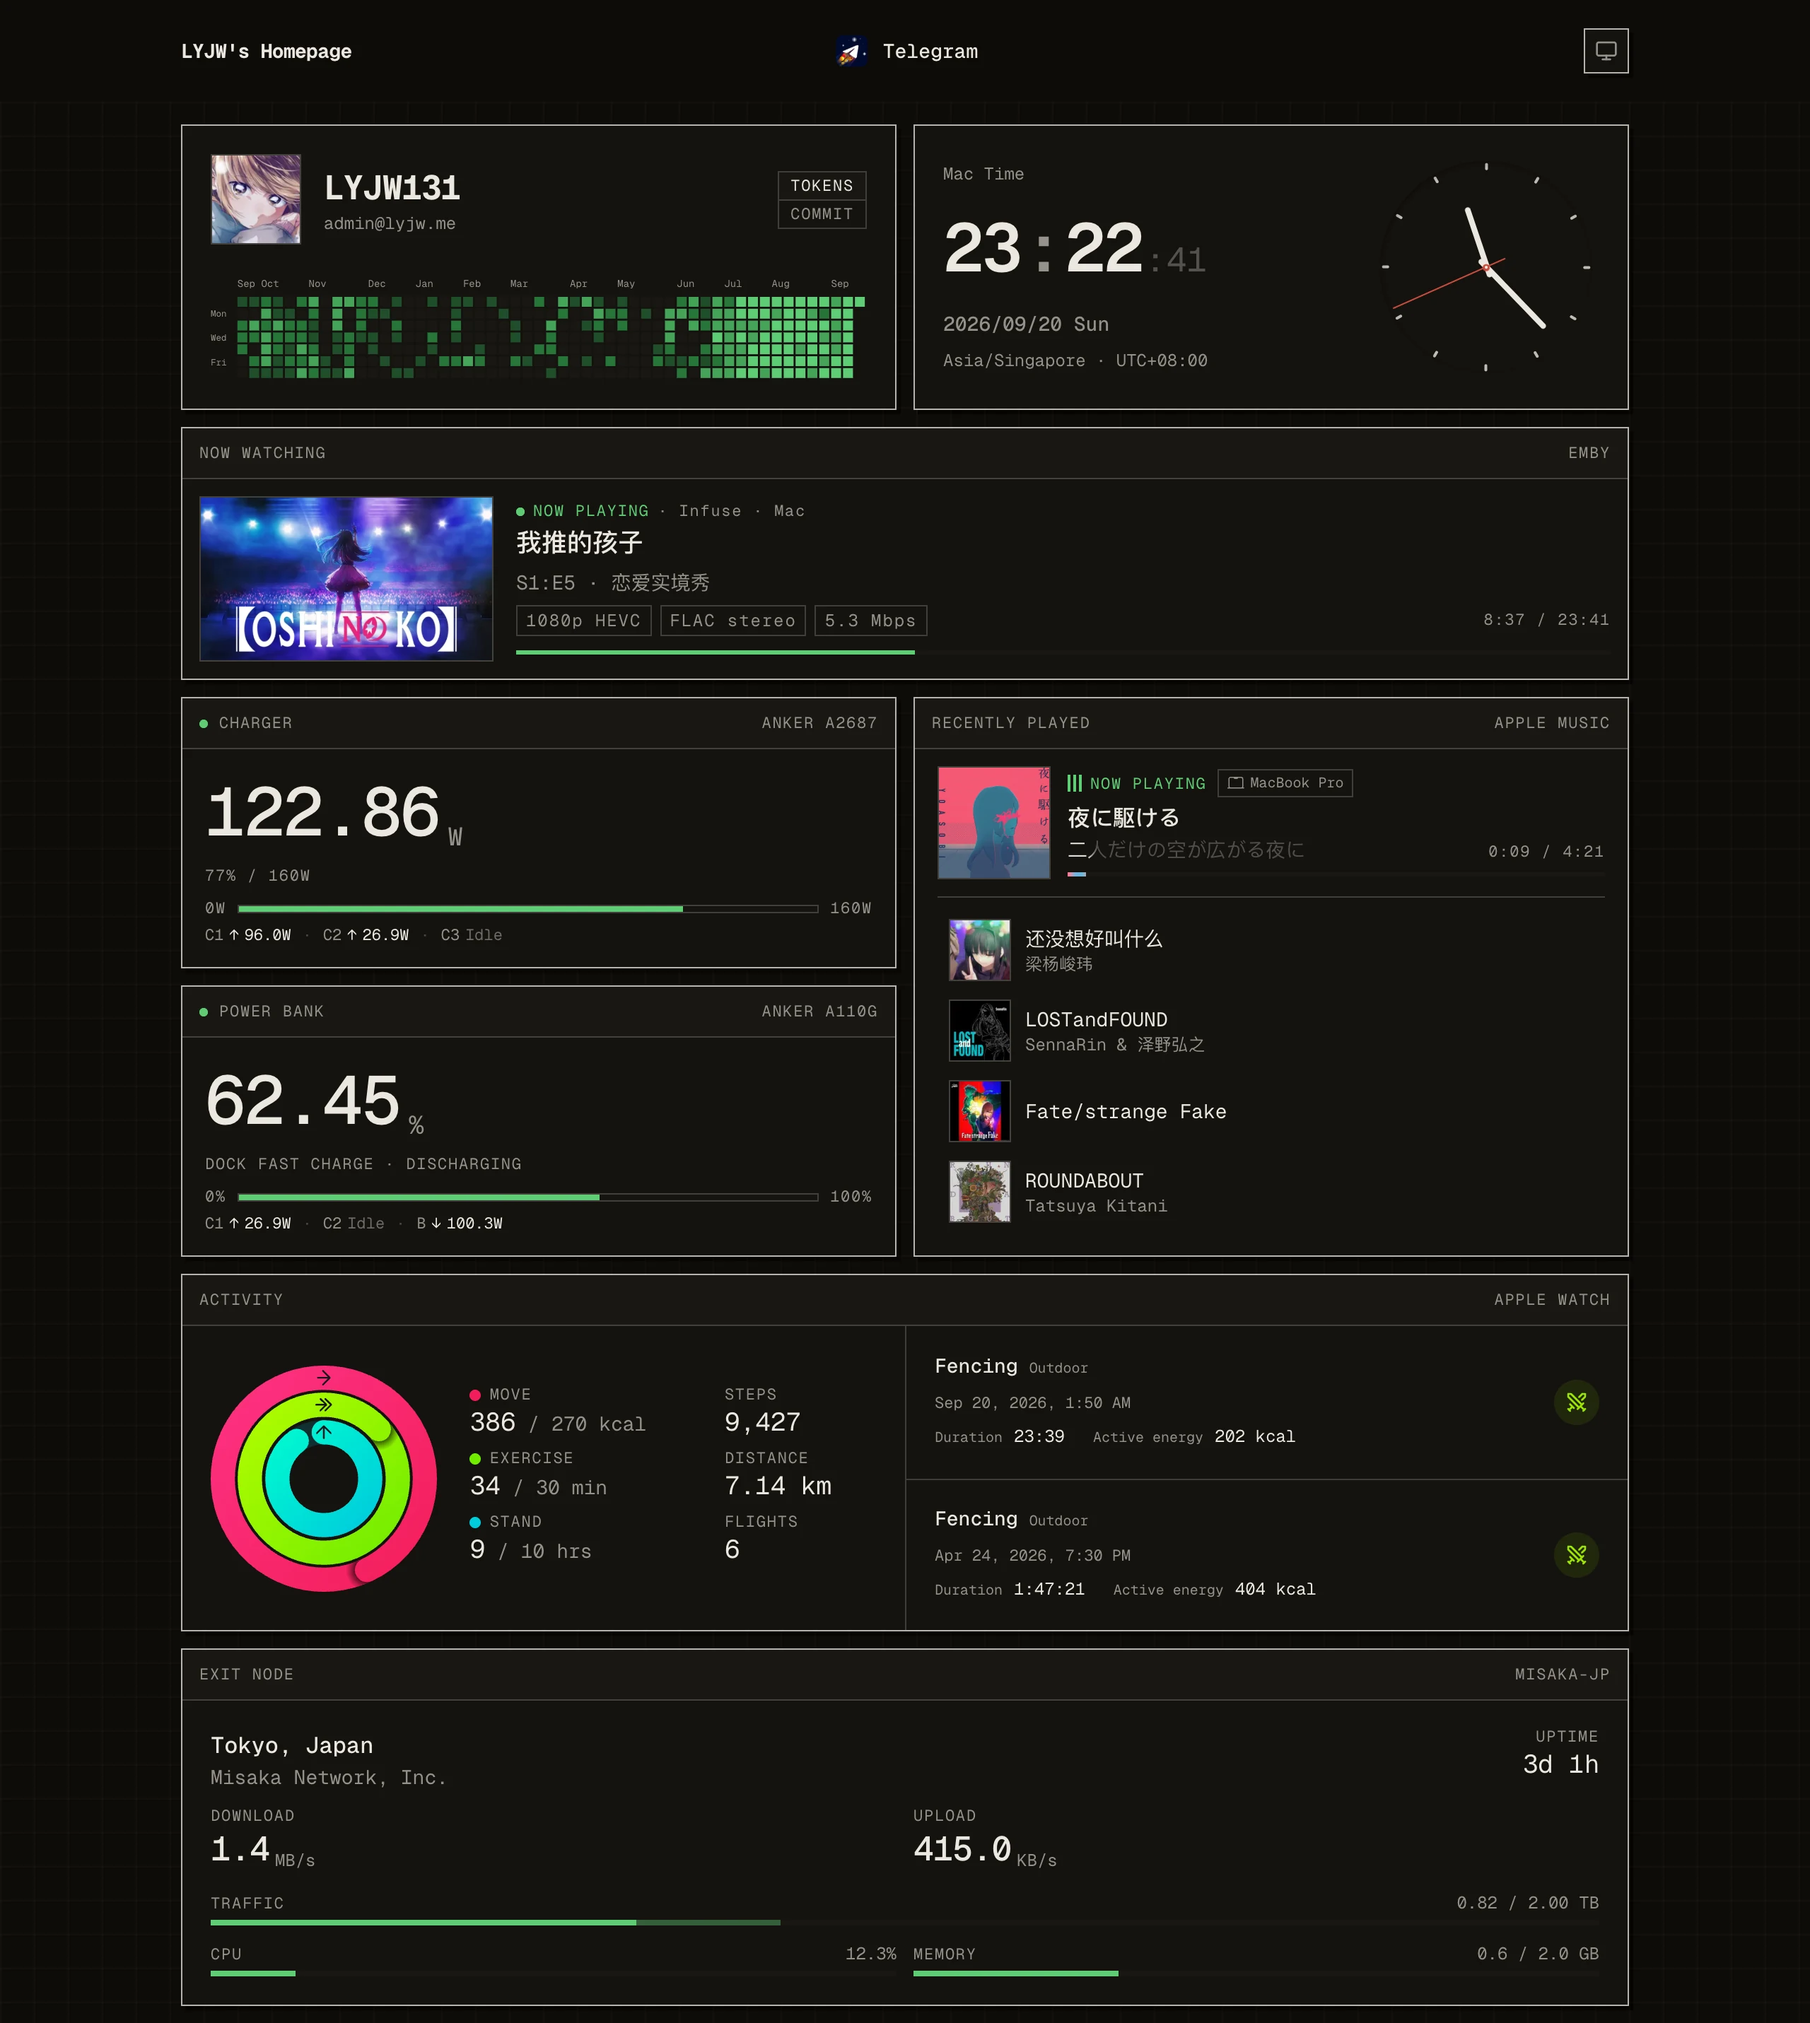
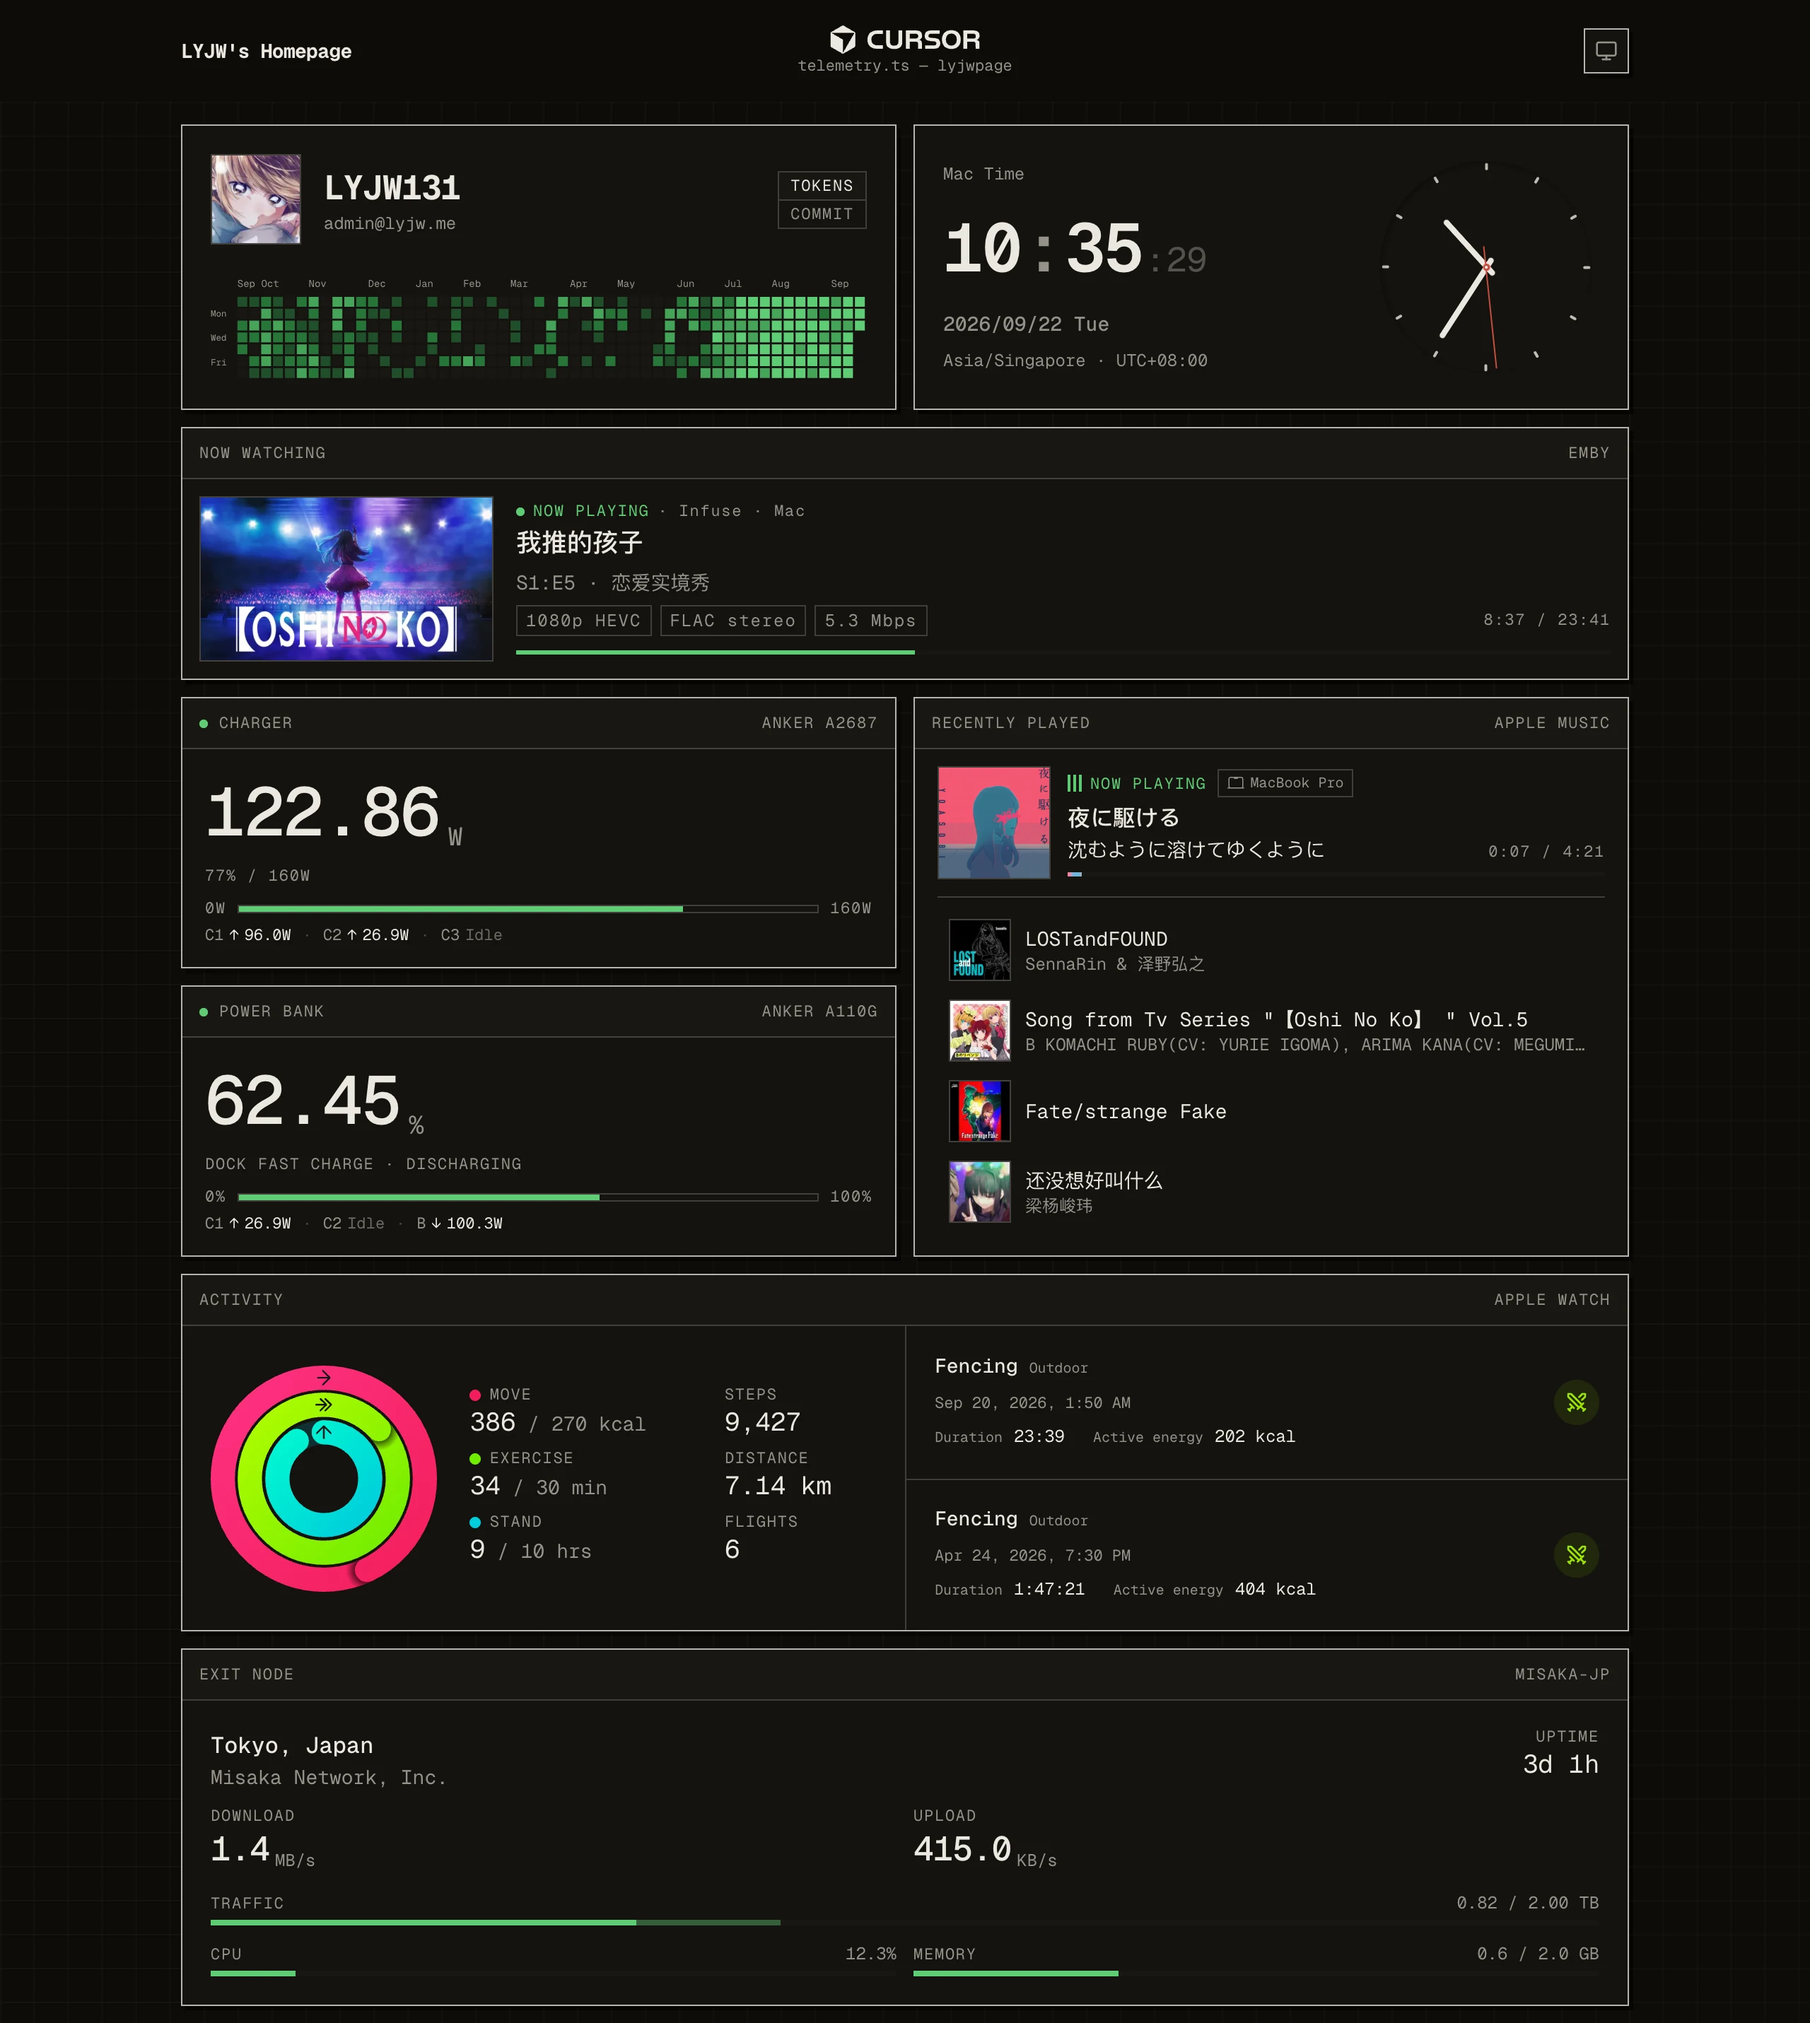
docs(readme): 补窗口标题与 Pulse 时段详情，总览图带上标题行
页头 09-22 起在应用名下面多一行放行的窗口标题（9279f62），Pulse 的泳道可以
悬停看某一段的曲目和评分（8cfdd51），listening 改画 Jev 评分而不是实测阶跃
（325ddda）——README 三处都还是旧口径。

- 新增效果图：页头带窗口标题的徽章、Pulse 时段详情浮层，明暗各一份
- 总览图重截：页头改注入带 windowTitle 的 desktop 夹具，标题行出现在图里
- Pulse 段落改准口径：看 / 玩画实测状态，充电画实测瓦数，编码 / 听 / 身体活动
  画 Jev 五分钟评分，并说明听和身体活动为什么不画实测
- 「几个关键设计」加一节「窗口标题在上报之前先过一道判断」：标题离开 Mac 前
  先过一道隐私判断，Jev 参与，只有放行的才进信封
- docs/README.md 补这两张图各自需要的额外动作

diff --git a/README.md b/README.md
@@ -19,11 +19,11 @@
 | **音乐** | Apple Music 与 HomePod 播放状态、最近收听、逐字歌词和动态封面；访客可通过自己的 Apple Music 账号与订阅使用网页播放器和「一起听」。 |
 | **影视** | Emby 正在播放与最近观看，呈现播放进度、剧集信息、画面与音轨规格。 |
 | **游戏** | PlayStation 在线状态、游戏记录与奖杯进度，展开游戏卡片查看成就明细。 |
-| **本机与充电设备** | Mac 前台应用（几款常用工具换成品牌标识和动画），以及 Anker 充电器、充电宝的端口状态、电压、电流和功率变化。 |
+| **本机与充电设备** | Mac 前台应用（几款常用工具换成品牌标识和动画），以及通过隐私判断放行的窗口标题；Anker 充电器、充电宝的端口状态、电压、电流和功率变化。 |
 | **AI Coding** | 编码工具的 Token 用量、API 等值成本估算、年度热力图与账号限额窗口。 |
 | **运动活动** | 通过 iPhone 的 HealthKit 数据展示 Apple Watch 活动、锻炼与站立三环，以及最近 10 次训练的时长、能量和心率。 |
 | **服务器** | 落地节点的运行时间、CPU、内存、网络吞吐，以及按计费周期累计的流量。 |
-| **Pulse** | 编码、听、看、玩、充电、身体活动六个域最近 24 小时的活跃度泳道，听、看、玩曲线显示二值状态，充电曲线显示实测瓦数；六项右侧均保留 Jev 评分和趋势。 |
+| **Pulse** | 编码、听、看、玩、充电、身体活动六个域最近 24 小时的活跃度泳道；悬停任一时段可看当时在听的曲目、在看的影视、在玩的游戏与该窗口的评分。 |
 | **站点自身** | 网站版本、GitHub 仓库统计与最近提交（含签名状态），PageSpeed 实验室指标的滚动中位数，以及 Vercel 部署和 Cloudflare Workers 的调用统计。 |
 
 界面以灰阶、细线边界和卡片布局为基础，用等宽数字稳定动态指标的排版。颜色与动效主要服务于媒体内容、状态变化和交互反馈。
@@ -91,11 +91,18 @@
   <img src="docs/screenshots/playstation-trophies-light.webp" alt="PlayStation 卡片：在线、正在游玩与展开的奖杯明细" width="100%">
 </picture>
 
-**Pulse**：六个域最近 24 小时的活跃度泳道，听、看、玩曲线直接显示播放／游戏状态，充电曲线和详情显示实测瓦数。六项右侧均由 Jev 五分钟评分汇总强度、趋势和置信度；历史每分钟归档到 D1。
+**Pulse**：六个域最近 24 小时的活跃度泳道。看、玩画实测的播放与游戏状态，充电画实测瓦数；编码、听、身体活动画 Jev 的五分钟评分。听和身体活动画评分而不画实测，是因为实测那条线有盲区——在 iPhone 上听一整天，本机观测到的是一条平线，痕迹只留在「最近在听」列表的变动里；手表两次上报之间的活动同理。只有评分那一侧收得到两路证据。六项右侧统一汇总强度档位、趋势和置信度，历史每分钟归档到 D1。
 
 <picture>
   <source media="(prefers-color-scheme: dark)" srcset="docs/screenshots/pulse-dark.webp">
   <img src="docs/screenshots/pulse-light.webp" alt="Pulse 卡片：六条活跃度泳道与评分" width="100%">
+</picture>
+
+悬停、点击或用方向键走到某一段，会显示这一段的时间范围、当时在听的曲目（在看的影视、在玩的游戏同理）以及该窗口的强度、连续性和置信度。播放停止的时段不沿用上一首的名字。
+
+<picture>
+  <source media="(prefers-color-scheme: dark)" srcset="docs/screenshots/pulse-detail-dark.webp">
+  <img src="docs/screenshots/pulse-detail-light.webp" alt="Pulse 泳道的时段详情：时间范围、当时的曲目与该窗口评分" width="100%">
 </picture>
 
 **AI Coding**：各编码工具的 Token 用量、成本估算、今日用量与账号限额窗口。
@@ -110,6 +117,13 @@
 <picture>
   <source media="(prefers-color-scheme: dark)" srcset="docs/screenshots/desktop-marks-dark.gif">
   <img src="docs/screenshots/desktop-marks-light.gif" alt="页头前台应用的四种品牌标识：Claude Code 吉祥物取物动画、Ghostty ASCII 幽灵动画、Cursor、Antigravity" width="577">
+</picture>
+
+应用名下面还有一行淡色小字，是当前窗口的标题——但只有通过隐私判断的标题才会出现，见下文。
+
+<picture>
+  <source media="(prefers-color-scheme: dark)" srcset="docs/screenshots/desktop-title-dark.webp">
+  <img src="docs/screenshots/desktop-title-light.webp" alt="页头徽章：品牌标识下方一行放行的窗口标题" width="183">
 </picture>
 
 ## 系统架构
@@ -152,6 +166,10 @@
 状态读改写在 Durable Object 内串行合并并持久化。单个数据源不可用时，通过统一的状态响应让对应卡片降级，而不是让整页等待所有设备在线。
 
 上报写入需要鉴权，公开查询只返回明确的展示模型，服务端凭据与公开状态分开处理。
+
+### 窗口标题在上报之前先过一道判断
+
+窗口标题是页面上唯一一项窗口内容，也是唯一一项不能靠规则穷举的内容：应用名就那么多个，标题却是此刻打开的文件、网页或聊天对象。所以它在离开 Mac 之前先过一道隐私判断，由 [TypeSafe](https://www.typesafe.ai/) 的 Jev 参与判断能不能公开，拿不准的留给本人在 Mac 上决定；只有放行的标题才进上报信封。站点这一侧不参与判断，只认信封里有没有标题。
 
 ### 根据活动与访问情况调整开销
 

diff --git a/docs/README.md b/docs/README.md
@@ -28,6 +28,8 @@
 
 [`screenshots/`](./screenshots/) 是根 README 里的效果图，明暗各一份。用本地 Worker 的假数据注入把平时不显示的状态点亮后截的，夹具在 [`workers/api/dev-fixtures/`](../workers/api/dev-fixtures/)，注入方式见 [`workers/api/README.md`](../workers/api/README.md)。截图用无头 Chrome（playwright-core 的 `channel: "chrome"`）开 1280 宽、2 倍像素密度，`colorScheme` 切明暗；裁卡片按元素 boundingBox 外扩 12px 取 `clip`，并把目标之外的兄弟节点 `visibility: hidden`，边距里才不会露出邻居卡片的边；PNG 用项目自带的 sharp 转 WebP（q 88）。
 
+两张需要额外动作：页头那行窗口标题要先注入带 `windowTitle` 的 desktop 夹具（如 `desktop-cursor.json`）；Pulse 的时段详情要用鼠标停在泳道上，把 `[role="tooltip"]`（body 上的浮层）和卡片的 boundingBox 取并集再裁，并顺手把上一张卡 `visibility: hidden`——浮层画在卡片上方，那 12px 的缝里会露出它的下边和硬阴影。
+
 3211 / 8788 被别的实例占着时，用 `.claude/launch.json` 里的 `api-worker-alt`（8790）和 `lyjwpage-local-alt`（3213）另起一套：`dev:worker` / `dev:local` 认 `DEV_WORKER_PORT` / `DEV_SITE_PORT`，`next.config.ts` 认 `NEXT_DIST_DIR`（`next dev` 按 `<distDir>/dev/lock` 保证同目录单实例，第二套要指到 `.next/alt`），`pnpm dev:override` 和截图脚本分别用 `DEV_WORKER_URL` / `SITE_URL` 指过去。
 
 歌词不入库：本地 Worker 没有 Apple Music 凭据，`/api/lyrics` 也不走上游兜底，所以截「正在听」时把生产站的响应包一层 `ok` 直接注入（`song` 取 `listening-now-*.json` 里的 `songId`）：
